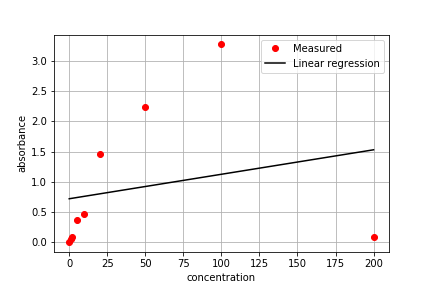
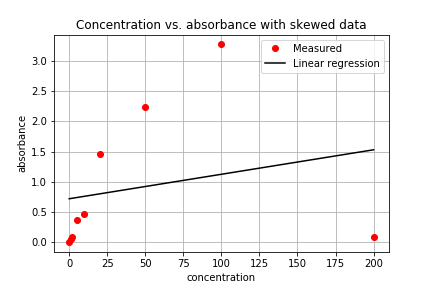
1

Changed region(s): [[0.1806, 0.0625, 0.8426, 0.125]]

diff --git a/Postlabs/Data Analysis Lab 1.md b/Postlabs/Data Analysis Lab 1.md
@@ -9,7 +9,7 @@ import numpy as np
 import matplotlib.pyplot as plt
 import pandas as pd
 from scipy import stats
-data_set = "https://raw.githubusercontent.com/barbaraoramah/my-CEE4530/master/data%20lab%201%20(skewed).tsv"
+data_set = "https://raw.githubusercontent.com/barbaraoramah/my-CEE4530/master/data%20lab%201.tsv"
 
 df = pd.read_csv(data_set,delimiter='\t')
 print(df)
@@ -51,10 +51,11 @@ ax.plot(x, slope * x + intercept, 'k-', )
 ax.set(xlabel=list(df)[1])
 ax.set(ylabel=list(df)[0])
 ax.legend(['Measured', 'Linear regression'])
+ax.set(title = "Concentration vs. absorbance without skewed data")
 ax.grid(True)
 # Here I save the file to my local harddrive. You will need to change this to work on your computer.
 # We don't need the file type (png) here.
-plt.savefig('skewed')
+plt.savefig('linear without skewed pts')
 plt.show()
 print(intercept)
 print(slope)
@@ -64,11 +65,11 @@ print(slope)
 
 When the data included concentrations including the 100 mg/L and 200 mg/L the data did not increase linearly.
 
-<p align="center"> <img src="https://github.com/barbaraoramah/my-CEE4530/blob/master/images/skewed%20post%20lab%201.png?raw=true" heights=310 width=927> </p>
+<p align="center"> <img src="https://github.com/barbaraoramah/my-CEE4530/blob/master/images/skewed.png?raw=true" heights=310 width=927> </p>
 
 **Figure 1**: Linear Regression plot of concentration vs. absorbance with skewed data
 
-<p align="center"> <img src="https://github.com/barbaraoramah/my-CEE4530/blob/master/images/linear%20without%20skewed%20points%20post%20lab1.png?raw=true" heights=310 width=927> </p>
+<p align="center"> <img src="https://github.com/barbaraoramah/my-CEE4530/blob/master/images/linear%20without%20skewed%20points.png?raw=true" heights=310 width=927> </p>
 
 **Figure 2**: Linear Regression plot of concentration vs. absorbance without skewed data
 
@@ -108,6 +109,8 @@ We would expect our experimental density to be within the 0.16% accuracy.
 
 * Don’t forget to write a brief paragraph on conclusions and on suggestions using Markdown.
 
-In this lab we learned how to use several instruments that we will continue to use for the rest of the labs. This included how to calibrate and use the electronic balances. We also used the proper technique for the pipette to measure reverse osmosis water. We diluted stock solution into various designated concentrations of red dye. Finally we
+In this lab we learned how to use several instruments that we will continue to use for the rest of the labs. This included how to calibrate and use the electronic balances. We also used the proper technique for the pipette to measure the masses of reverse osmosis water. We diluted stock solution into various designated concentrations of red dye. Finally we learned how to calibrate and use the photometer in order to interpolate the unknown concentration in a dilute sample of red dye.
+
+We don't have any suggestions on improving Markdown.
 
 * Verify that your report and graphs meet the requirements as outlined on the course website.
